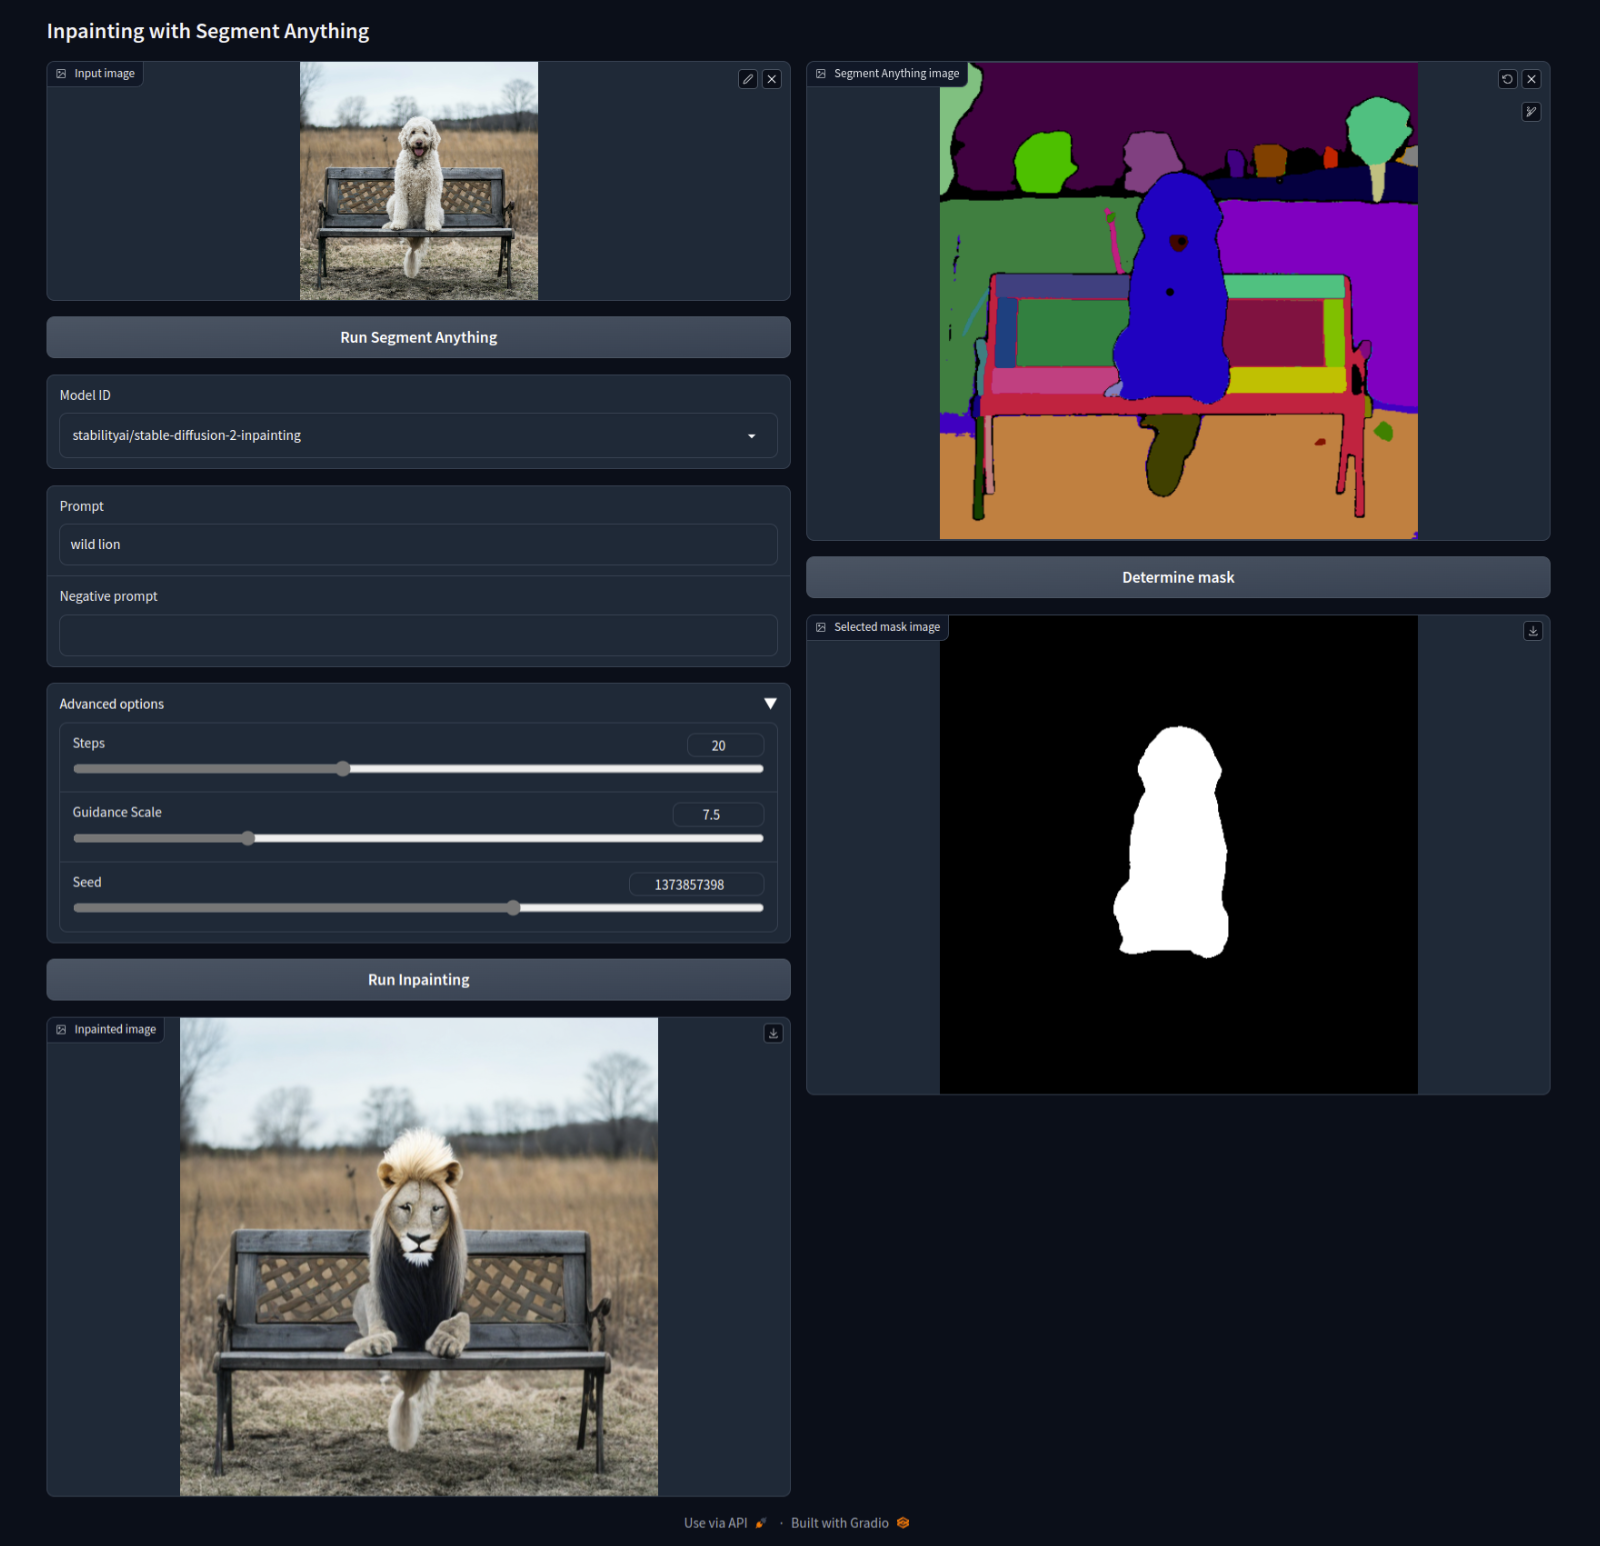
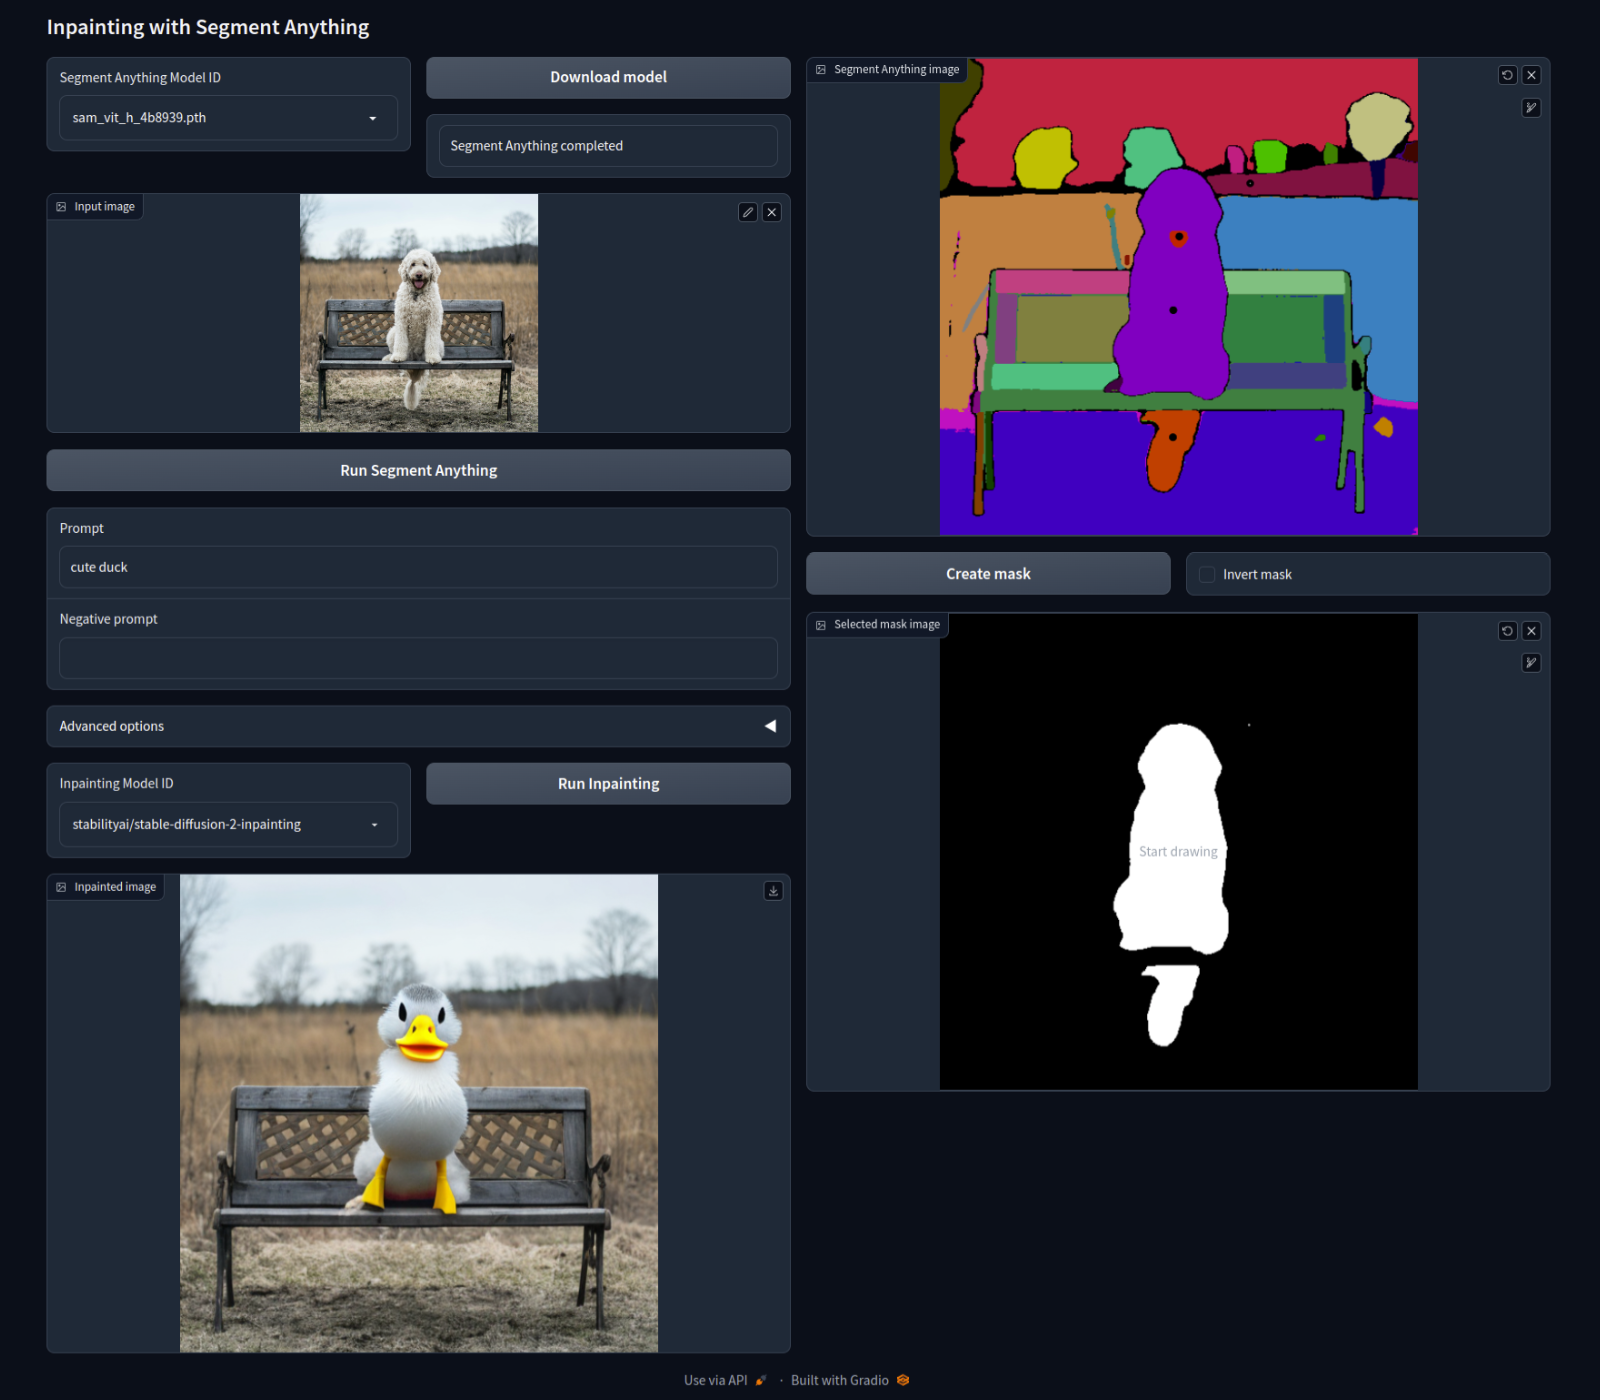
Fixed wording to match function

diff --git a/iasam_app.py b/iasam_app.py
@@ -270,7 +270,7 @@ def on_ui_tabs():
                 prompt = gr.Textbox(label="Prompt")
                 n_prompt = gr.Textbox(label="Negative prompt")
                 with gr.Accordion("Advanced options", open=False):
-                    ddim_steps = gr.Slider(label="Steps", minimum=1, maximum=50, value=20, step=1)
+                    ddim_steps = gr.Slider(label="Sampling Steps", minimum=1, maximum=50, value=20, step=1)
                     scale = gr.Slider(label="Guidance Scale", minimum=0.1, maximum=30.0, value=7.5, step=0.1)
                     seed = gr.Slider(
                         label="Seed",

diff --git a/README.md b/README.md
@@ -47,12 +47,6 @@ If you are using macOS, please install the following package instead of the prev
 pip install -r requirements_mac.txt
 ```
 
-## Download model
-
-* Download `sam_vit_h_4b8939.pth` from the [model checkpoints](https://github.com/facebookresearch/segment-anything#model-checkpoints).
-* Place the downloaded file in the `models` directory.
-* If the file does not exist, you can download it by clicking the download button after launching the application.
-
 ## Running the application
 
 ```bash
@@ -62,15 +56,24 @@ python iasam_app.py
 * Open http://127.0.0.1:7860/ in your browser.
 * Recommended browsers: Microsoft Edge or Mozilla Firefox (as mask selection may not work properly with Google Chrome).
 
+## Downloading the Model
+
+To download the model:
+
+1. Launch this application.
+2. Click on the "Download model" button next to the [Segment Anything Model ID](https://github.com/facebookresearch/segment-anything#model-checkpoints).
+3. Wait for the download to complete.
+4. The downloaded model file will be stored in the `models` directory of this application's repository.
+
 ## Usage
 
 * Drag and drop your image onto the input image area.
 * Click the "Run Segment Anything" button.
 * Use sketching to define the area you want to inpaint. You can undo and adjust the pen size.
 * Click the "Create mask" button (the mask will appear in the selected mask image area).
-* Choose the Model ID, enter the Prompt and Negative Prompt.
+* Enter the Prompt and Negative Prompt, Choose the Inpainting Model ID.
 * Click the "Run Inpainting" button (**Please note that it may take some time to download the model for the first time**).
-* You can change the seed in the Advanced options.
+* You can change the Sampling Steps, the Guidance Scale and the Seed in the Advanced options.
 
 Inpainting is performed using [diffusers](https://github.com/huggingface/diffusers).
 
